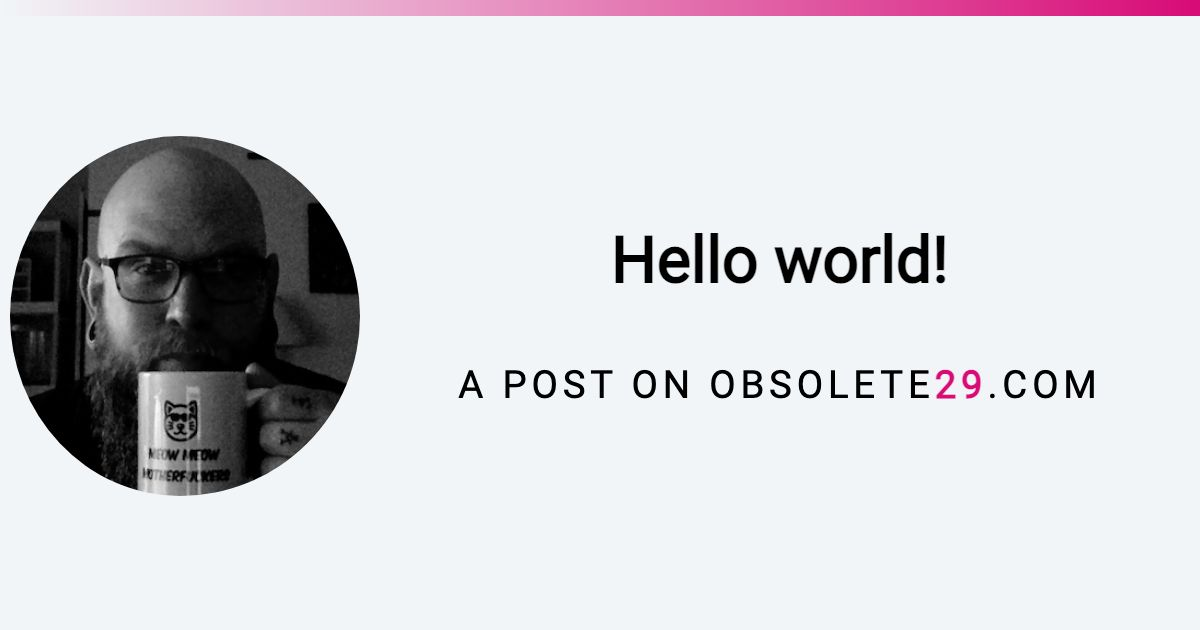
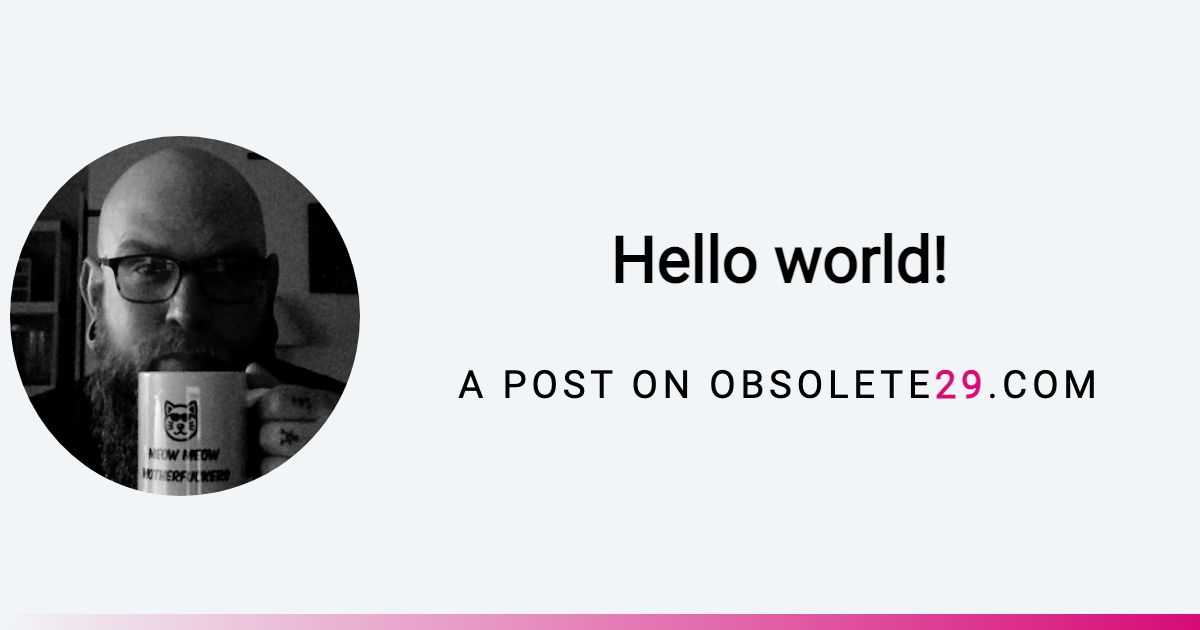
I mean it this time

Changed region(s): [[0.0925, 0.9651, 1.0, 1.0], [0.0925, 0.0, 1.0, 0.0302]]

diff --git a/posts/hello-world/og-image/index.html b/posts/hello-world/og-image/index.html
@@ -30,10 +30,9 @@
         figure {
             margin: 0;
         }
-
         .page-stripe {
             position: absolute;
-            top: 0;
+            bottom: 0;
             width: 600px;
             height: 8px;
             background-image: linear-gradient(to right,#f1f5f7,#d80b77);

diff --git a/posts/learning-web-dev/og-image/index.html b/posts/learning-web-dev/og-image/index.html
@@ -30,10 +30,9 @@
         figure {
             margin: 0;
         }
-
         .page-stripe {
             position: absolute;
-            top: 0;
+            bottom: 0;
             width: 600px;
             height: 8px;
             background-image: linear-gradient(to right,#f1f5f7,#d80b77);

diff --git a/posts/lessons-learned-from-bridgestone/og-image/index.html b/posts/lessons-learned-from-bridgestone/og-image/index.html
@@ -30,10 +30,9 @@
         figure {
             margin: 0;
         }
-
         .page-stripe {
             position: absolute;
-            top: 0;
+            bottom: 0;
             width: 600px;
             height: 8px;
             background-image: linear-gradient(to right,#f1f5f7,#d80b77);

diff --git a/posts/please-meet-my-cats/og-image/index.html b/posts/please-meet-my-cats/og-image/index.html
@@ -30,10 +30,9 @@
         figure {
             margin: 0;
         }
-
         .page-stripe {
             position: absolute;
-            top: 0;
+            bottom: 0;
             width: 600px;
             height: 8px;
             background-image: linear-gradient(to right,#f1f5f7,#d80b77);
